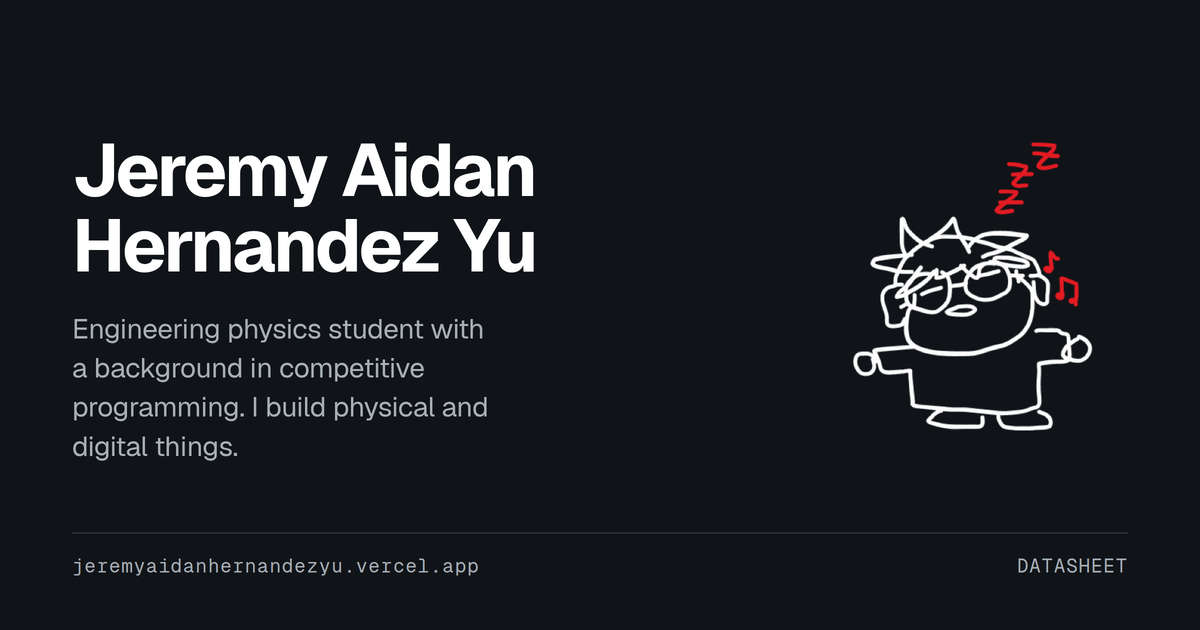
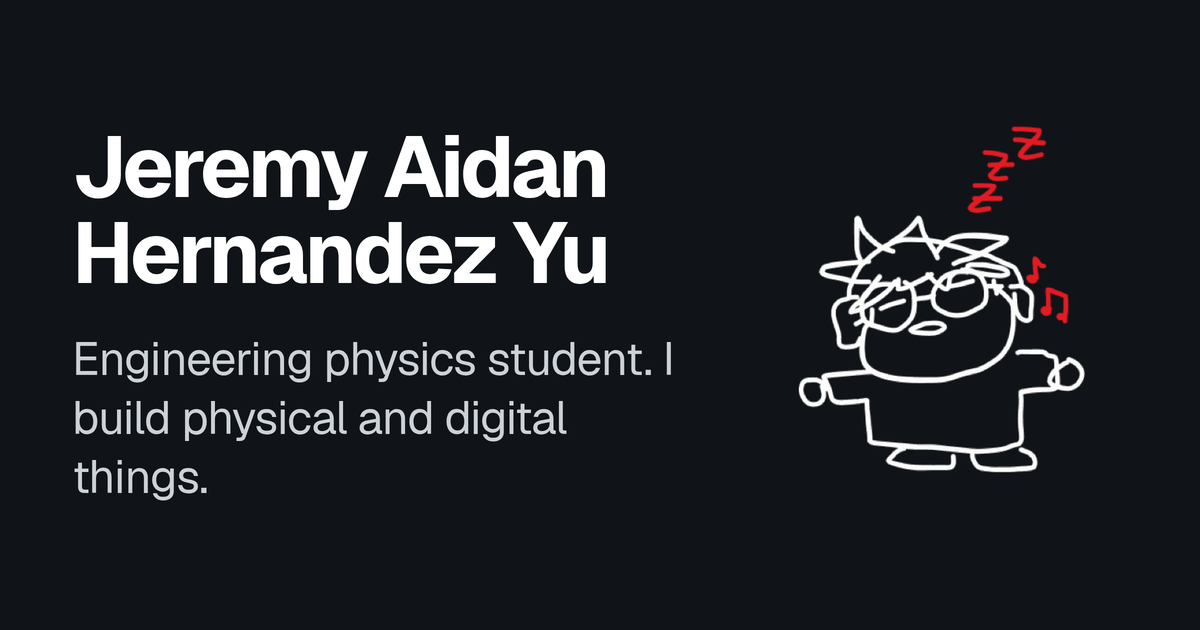
Rebuild the link card for the size it is actually read at
Reported: legible on Discord, unreadable on a LinkedIn phone feed.

The card is 1200x630 but LinkedIn renders it around 340 to 400px wide, so
everything on it divides by three. The first version set the line under
the name at 28px and a footer at 19px, which land at 9px and 6px on a
phone. The name was fine at 74px; nothing else was.

The floor is about 42px in the source, which is 14px at 400px wide. The
name is now 86px and the line is 46px, so they land at 29px and 15px. The
figure is bigger too, 360px, since it also lost detail at feed size.

**The footer is gone.** LinkedIn already prints the domain under the card,
which is visible in the report, so repeating it inside the image was
spending the card's size on a duplicate.

**The line is shortened to "Engineering physics student. I build physical
and digital things."** The full tagline still keeps "with a background in
competitive programming" everywhere it is quoted as text: the meta
description, og:description and the RSS channel. It does not fit on the
card at a size anyone can read, and a card that says less legibly beats a
card that says more illegibly.

The sizing rule and how to check it are in BaseHead.astro: shrink the
result to 380px wide and read it, which is the size it is judged at.

Rev 2.6.

Claude-Session: https://claude.ai/code/session_01LshaAmwzcx4hPfiNnA5fPB

diff --git a/src/data/profile.ts b/src/data/profile.ts
@@ -31,7 +31,7 @@ import ubcRocketTeam from '../assets/ubc-rocket-team.jpg';
    follow-up commit of their own. A rev that lags the site is worse than
    no rev at all: the block is the one place the document dates itself. */
 export const REVISION = {
-	rev: '2.5',
+	rev: '2.6',
 	/* `PRELIMINARY` until 4 Sep, which on a datasheet means the spec may
 	   still change. It stopped being true: the credentials are confirmed
 	   and sourced, the résumé link is real, no row prints a shot spec and

diff --git a/docs/build-and-ship.md b/docs/build-and-ship.md
@@ -36,7 +36,7 @@ it moves with the site:
 
 ```ts
 export const REVISION = {
-	rev: '2.5',
+	rev: '2.6',
 	status: 'DEPLOYED',
 	updated: '2026-09-04',
 };
